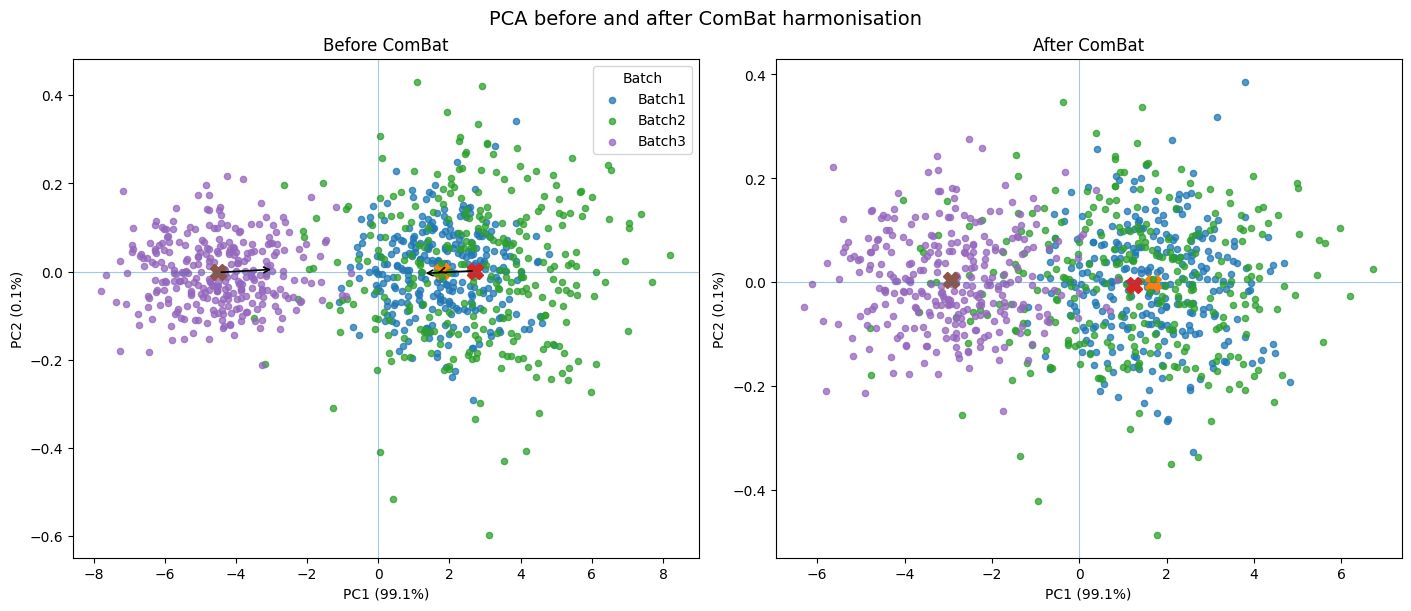
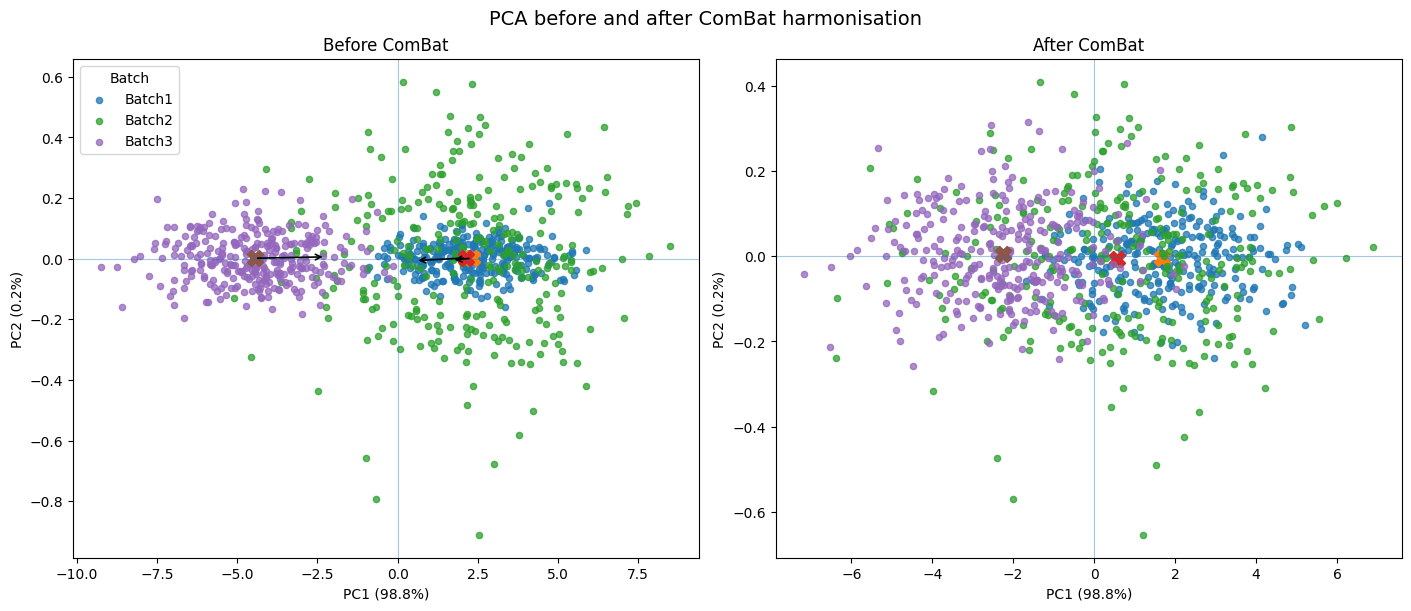
Jake commit 2

diff --git a/docs/ScannerHarmonization/B1_N2_Simulated_example_of_Eos.rst b/docs/ScannerHarmonization/B1_N2_Simulated_example_of_Eos.rst
@@ -12,19 +12,19 @@ In the most simple modelling approach, an individual measurement for one
 individual (for example, hippocampal volume) for participant i at site j
 can be expressed as a simple linear model of the form below:
 
-$ y_{ij} = :raw-latex:`\alpha`\ *j + :raw-latex:`\epsilon`*\ {ij}$
+.. math:: y_{ij} = \alpha_j + \epsilon_{ij}
 
 Where:
 
--  :math:`y_{ij}` is the observed measurement
+.. math:: y_{ij} \text{ is the observed measurement}
 
--  :math:`\alpha_j` is the average value at site :math:`j`
+.. math:: \alpha_j \text{ is the average value at site } j
 
--  :math:`\epsilon_{ij}` represents subject-level variation and noise
+.. math:: \epsilon_{ij} \text{ represents subject-level variation and noise}
 
 This assumes that a single measurement, for example the volume, is just
 a linear combination of the mean volume of that ROI, plus some subject
-specific effect :math:`\epsilon`
+specific effect :math:`\epsilon_{ij}`
 
 **Incorporating Biological Covariates**
 
@@ -35,8 +35,8 @@ interactions between them (such as age :math:`\times` sex).
 
 The most simple model, assuming no interactions, is then:
 
-$ y_{ij} = :raw-latex:`\alpha`\_j + X_i :raw-latex:`\beta`\ *j +
-:raw-latex:`\epsilon`*\ {ij}$
+.. math:: y_{ij} = \alpha_j + X_i \beta_j + \epsilon_{ij}
+    
 
 Have a look at what this looks like below; Here we simulate three sites,
 all drawn from the same normal distribution, and then choose site
@@ -148,20 +148,17 @@ Batch effects can alter both:
 A commonly used harmonisation framework (such as ComBat) models the data
 using an expression similar to:
 
-$ y_{ij} = :raw-latex:`\alpha`\ *j + X_i :raw-latex:`\beta`\ j + X_i
-:raw-latex:`\beta`\ {batch} + :raw-latex:`\delta`*\ {batch,i}
-:raw-latex:`\times `:raw-latex:`\epsilon`\_{ij}$
+.. math::  y_{ij} = \alpha_j + X_i \beta_j + X_i \beta_{batch} + \delta_{batch,i} \times \epsilon_{ij}
 
--  :math:`\alpha_j` represents the baseline mean
+.. math:: \alpha_j \text{ represents the baseline mean}
 
--  :math:`X_i \beta_j` captures biological covariate effects
+.. math:: X_i \beta_j \text{ captures biological covariate effects}
 
--  :math:`X_i \beta_{batch}` represents additive batch effects
-   (:math:`\gamma_{b,j}` is often also used)
+.. math:: X_i \beta_{batch} \text{ represents additive batch effects (} \gamma_{b,j} \text{ is often also used)}
 
--  :math:`\delta_{batch}` represents multiplicative variance effects
+.. math:: \delta_{batch} \text{ represents multiplicative variance effects}
 
--  :math:`\epsilon_{ij}` is residual error
+.. math:: \epsilon_{ij} \text{ is residual error}
 
 Batch effects can produce misleading conclusions if not properly
 accounted for.
@@ -278,11 +275,6 @@ biologically meaningful results.*
 Analysing batch effects in MRI data with DiagnoseHarmonise (DHARM)
 ==================================================================
 
-.. figure:: DHARM.png
-   :alt: DHARM
-
-   QR code to the DHARM webpage
-
 Why this matters
 ----------------
 
@@ -315,14 +307,6 @@ You can install or explore the library via:
 
 -  **PyPI** pip install DiagnoseHarmonise
 -  **GitHub**
-
-Tools for analysing batch effects presented at OHBM 2026
---------------------------------------------------------
-
--  **Poster 2005**: An open-source tool for the analysis of batch
-   differences and harmonisation efficacy for MRI data
--  **Poster 2004**: A Tool for Transparent and Standardized Assessment
-   of Multisite Harmonization in Neuroimaging
 
 Take-home message
 -----------------

diff --git a/docs/ScannerHarmonization/B3_N0_ComBat_applications.rst b/docs/ScannerHarmonization/B3_N0_ComBat_applications.rst
@@ -3,19 +3,17 @@ Applying ComBat on simulated data:
 
 Combat assumes data is of the form:
 
-:math:`y_{i,j} = \alpha_0 + X_i\beta_j + \gamma_{b(i)j} + \delta_{b(i)j}\epsilon_{ij}`
+.. math:: y_{i,j} = \alpha_0 + X_i\beta_j + \gamma_{b(i)j} + \delta_{b(i)j}\epsilon_{ij}
 
 Where:
 
--  $ $ is the derived features (i.e. the volume of the hippocampus)
--  $ $ is the mean of the given feature
--  $ $ is a design matrix of covariates
--  $ $ are the estimated covariate effects (usually from taking the
-   psuedoinverse of the design with the dataset)
--  $ $ is the additive (location) effect
--  $ $ is the multiplicative (scaling) effect
--  $ $ is the subject specific term, assumed to capture subject specific
-   effects not described by covariates as well as measurement noise
+.. math:: y_{i,j} \text{ is the derived features (i.e. the volume of the hippocampus)}
+.. math:: \alpha_0 \text{ is the mean of the given feature}
+.. math:: X_i \text{ is a design matrix of covariates}
+.. math:: \beta_j \text{ are the estimated covariate effects (usually from taking the psuedoinverse of the design with the dataset)}
+.. math:: \gamma_{b(i)j} \text{ is the additive (location) effect}
+.. math:: \delta_{b(i)j} \text{ is the multiplicative (scaling) effect}
+.. math:: \epsilon_{ij} \text{ is the subject specific term, assumed to capture subject specific effects not described by covariates as well as measurement noise}
 
 Here, we will simulate some data as we did in section 1 and apply ComBat
 to it in order to see how it works and how well it does.
@@ -117,9 +115,9 @@ effects but with and without a batch effect for easier comparisson
     # If you have defined a batch effect using the simulator, you can skip this block
     
     batch_params = {
-        "Batch1": {"add_mean": 0.00, "add_sd": 0.05, "multi_mean": 1.00, "multi_shape": 25.0},
-        "Batch2": {"add_mean": 5, "add_sd": 0.08, "multi_mean": 1.5, "multi_shape": 18.0},
-        "Batch3": {"add_mean": -6, "add_sd": 0.06, "multi_mean": 0.8, "multi_shape": 30.0},
+        "Batch1": {"add_mean": 0, "add_sd": 0.05, "multi_mean": 0.5, "multi_shape": 25.0},
+        "Batch2": {"add_mean": 3, "add_sd": 0.08, "multi_mean": 1.9, "multi_shape": 18.0},
+        "Batch3": {"add_mean": -9, "add_sd": 0.06, "multi_mean": 0.7, "multi_shape": 30.0},
     }
 
 
@@ -204,9 +202,9 @@ This version has been installed locally in the block03_utils:
      [ 21.32213349   1.         165.32265572  70.19857413]
      [ 37.87925261   1.         149.30053152  62.69556106]
      ...
-     [ 86.68757171   0.         164.65047171  72.37865308]
-     [ 65.66636748   0.         167.53891688  70.25089182]
-     [ 56.48997195   0.         164.95502322  44.3826329 ]]
+     [ 71.68757171   0.         164.65047171  72.37865308]
+     [ 50.66636748   0.         167.53891688  70.25089182]
+     [ 41.48997195   0.         164.95502322  44.3826329 ]]
     (900, 4)
 
 

diff --git a/docs/ScannerHarmonization/B1_N1_Intro_To_Eos.rst b/docs/ScannerHarmonization/B1_N1_Intro_To_Eos.rst
@@ -93,29 +93,18 @@ notebook.
     import pathlib
     
     # 1. Display the example data from one subject in two different sessions using the provided viewer:
-    #  notebooks/block01/data/*.nii
-    DATA_DIR = pathlib.Path("../../data/data_block1")
+
     # Load the images, they are converted to arrays for ease within the MRIimage viewer class
     img1 = DATA_DIR / "Philips.nii"
     img2 = DATA_DIR / "GE.nii"
     
-    # We also have the T1 images registered (affine) to the MNI space, you can also load these to see that registration to a standard space
-    # will improve heterogeneity across scanners, but we will not use these for the rest of the course
-    #img1 = DATA_DIR / "Philips_brain_mni.nii.gz"
-    #img2 = DATA_DIR / "GE_brain_mni.nii.gz"
-    
     viewer1 = MRIImageViewer(img1, img2)
     viewer1.show()
 
-
-
-
-.. parsed-literal::
-
-    VBox(children=(HBox(children=(Button(button_style='primary', description='Axial', style=ButtonStyle()), Button…
-
 .. image:: B1_N1_Intro_To_Eos_files/Axial.png
+
 .. image:: B1_N1_Intro_To_Eos_files/Sagittal.png
+
 .. image:: B1_N1_Intro_To_Eos_files/Coronal.png
 
 Section 1.2: Basic image level statistics
